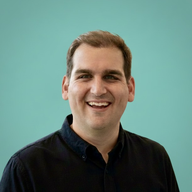
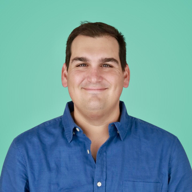
Update headshot to Headshot 1 (#93)
* Update headshot to Headshot 2 and fix pixelation decay

Replace all headshot images (favicon, icons, OG, game sprite) with new
photo. Fix canvas pixelation effect to dynamically match image dimensions
instead of hardcoding 611x611, and scale pixel block size for the higher
resolution canvas.

* Swap headshot to Headshot 1 for A/B comparison

---------

diff --git a/components/game/HeadshotOrGame.tsx b/components/game/HeadshotOrGame.tsx
@@ -13,8 +13,6 @@ const MarcManGame = dynamic(() => import("./MarcManGame"), {
 });
 
 const DURATION = 1300;
-const W = 611;
-const H = 611;
 
 function easeInOutCubic(t: number) {
   return t < 0.5 ? 4 * t * t * t : 1 - Math.pow(-2 * t + 2, 3) / 2;
@@ -35,24 +33,36 @@ export default function HeadshotOrGame() {
   const startTimeRef = useRef<number>(0);
   const offscreenRef = useRef<HTMLCanvasElement | null>(null);
   const imgRef = useRef<HTMLImageElement | null>(null);
+  const imgSizeRef = useRef<{ w: number; h: number }>({ w: 611, h: 611 });
 
   // Pre-load headshot on mount
   useEffect(() => {
     const img = new window.Image();
     img.src = "/headshot.jpeg";
-    img.onload = () => { imgRef.current = img; };
+    img.onload = () => {
+      imgRef.current = img;
+      imgSizeRef.current = { w: img.naturalWidth, h: img.naturalHeight };
+    };
     import("./MarcManGame"); // preload chunk so it's ready on first click
     return () => { cancelAnimationFrame(animRef.current); };
   }, []);
 
   const animatePixelation = useCallback((ts: number) => {
+    const { w: W, h: H } = imgSizeRef.current;
     const progress = Math.min((ts - startTimeRef.current) / DURATION, 1);
     const waveY = H * easeInOutCubic(progress);
-    const pixelSize = Math.max(1, Math.round(6 + 22 * easeInQuart(progress)));
+    const pixelSize = Math.max(1, Math.round(12 + 44 * easeInQuart(progress)));
 
     const canvas = canvasRef.current;
     const img = imgRef.current;
     if (!canvas || !img) return;
+
+    // Match canvas buffer to image dimensions
+    if (canvas.width !== W || canvas.height !== H) {
+      canvas.width = W;
+      canvas.height = H;
+    }
+
     const ctx = canvas.getContext("2d");
     if (!ctx) return;
 
@@ -124,8 +134,8 @@ export default function HeadshotOrGame() {
       <Image
         src="/headshot.jpeg"
         alt="Marc Anthony Rosa"
-        width={611}
-        height={611}
+        width={1200}
+        height={1200}
         className="w-full cursor-pointer"
         style={{ borderRadius: "16px" }}
         priority
@@ -133,8 +143,8 @@ export default function HeadshotOrGame() {
       />
       <canvas
         ref={canvasRef}
-        width={W}
-        height={H}
+        width={1200}
+        height={1200}
         style={{
           position: "absolute",
           inset: 0,
